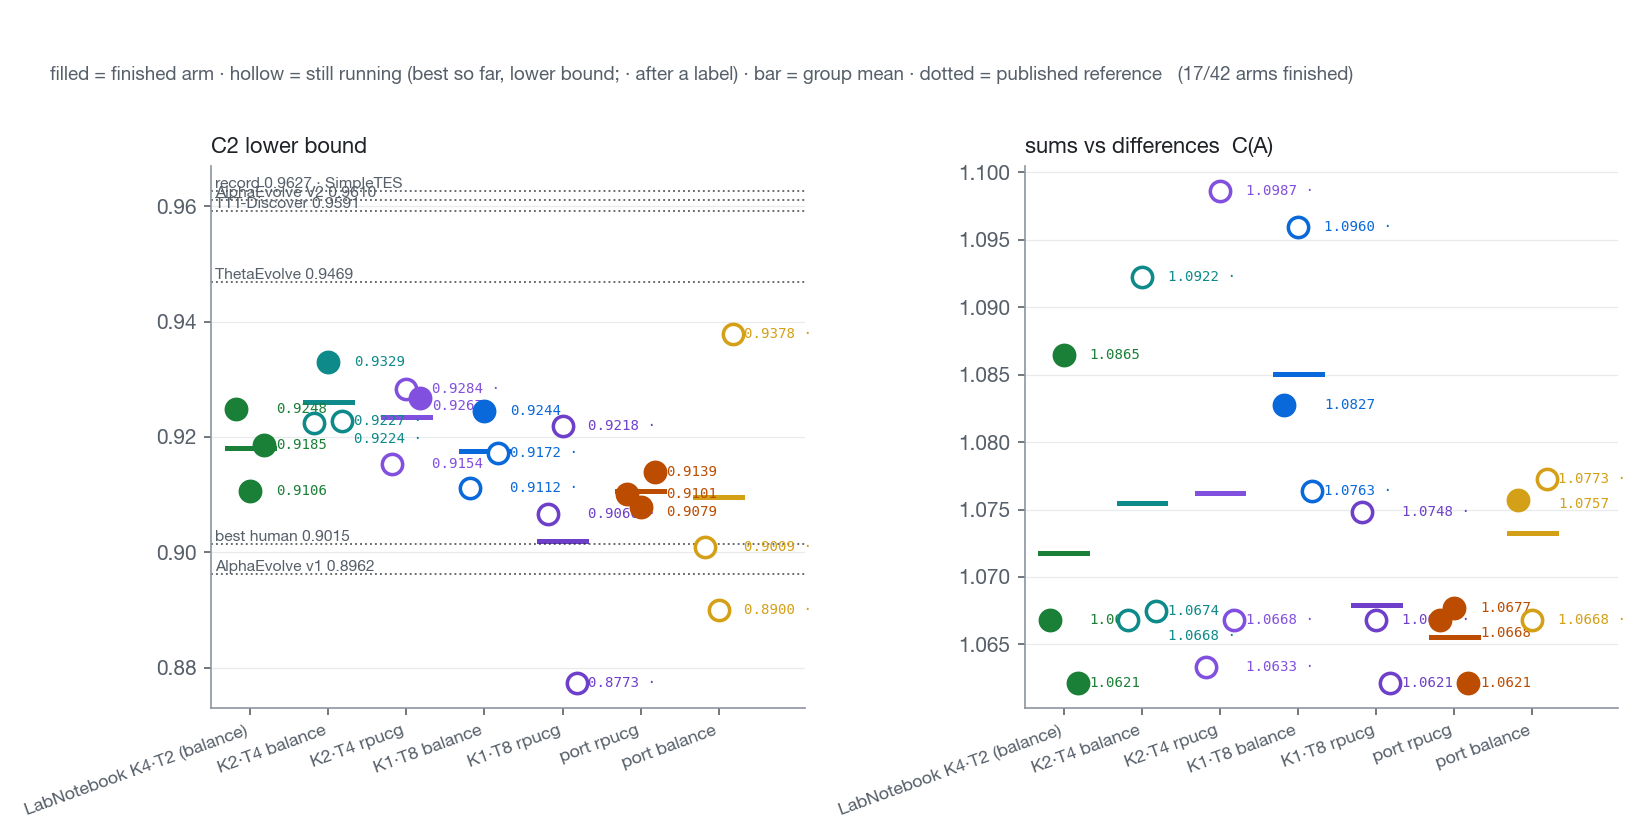
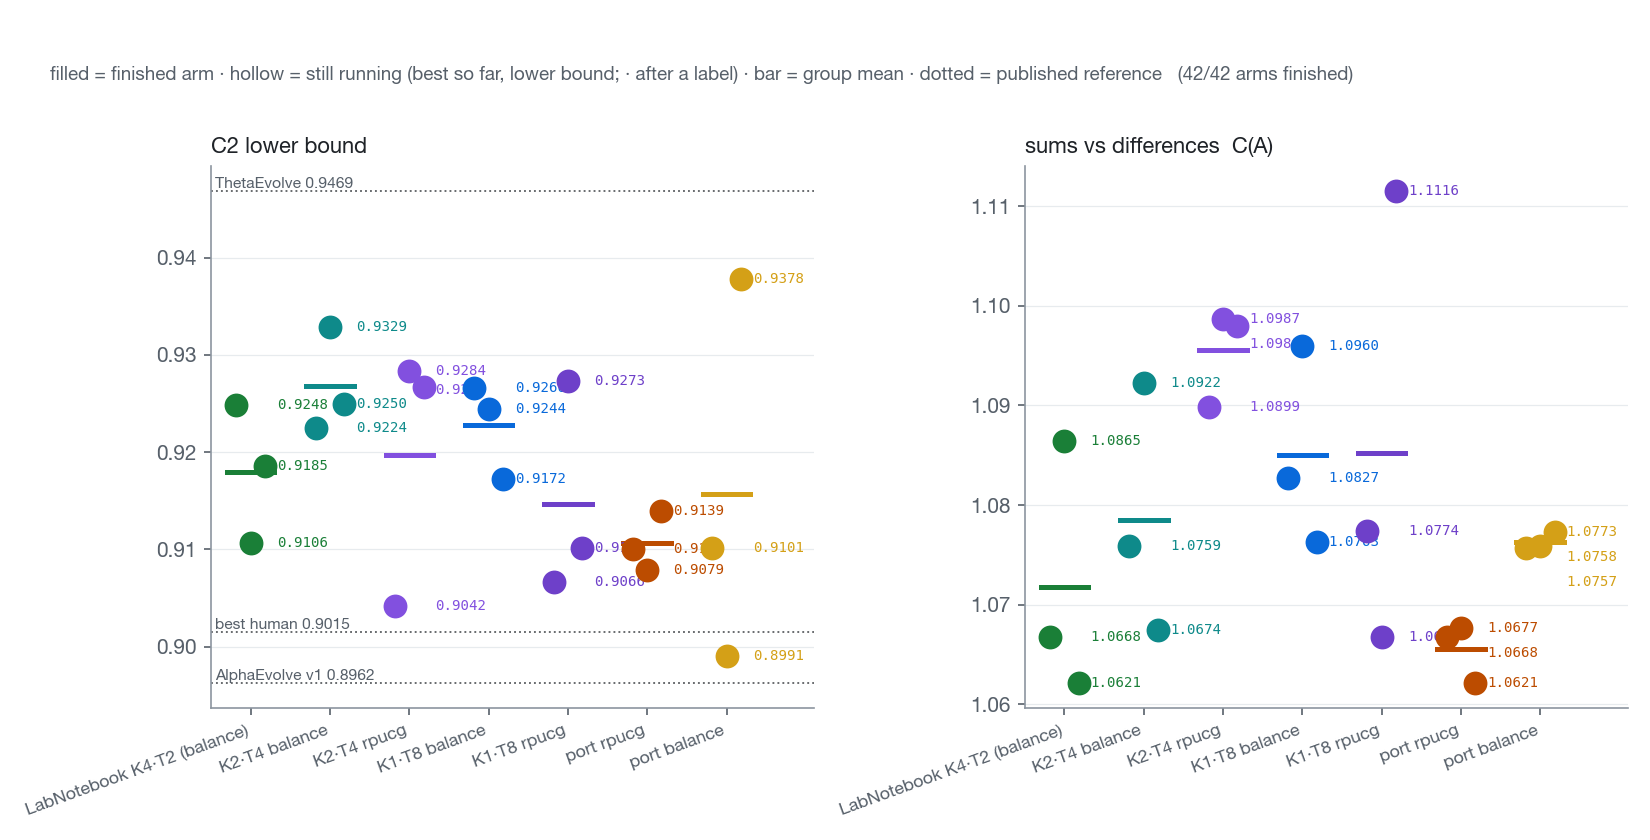
docs(evolution): ablations and selector study final; Part 1 at 16/18; merge-fix note

diff --git a/examples/evolution_bench/docs/lab_notebook_results.tex b/examples/evolution_bench/docs/lab_notebook_results.tex
@@ -528,9 +528,9 @@ differences inside the replicate spread ($\sim$0.01) are inconclusive, on AHC039
 $\sim$20 points, the seed's own machine noise.
 
 \begin{table}[H]\centering\small
-\caption{Part 1 snapshot (2026-09-09 08:30 PDT): best per arm (s0 / s1 / s2) and mean. Dashes are the five
-engine arms still running (now on Sherlock, resumed from the engine's own checkpoints); the upstream
-engine keeps no partial results.}
+\caption{Part 1 snapshot (2026-09-09 23:35 PDT): best per arm (s0 / s1 / s2) and mean. Dashes are the two
+sums-vs-differences port-mirror engine arms still running on Sherlock; the upstream engine keeps no
+partial results.}
 \label{tab:part1}
 \begin{tabular}{@{}lrrrr@{}}
 \toprule
@@ -546,14 +546,14 @@ upstream, authors' defaults & 0.9120 & 0.9094 & 0.9093 & 0.9102 \\
 \midrule
 LabNotebook & 1.0668 & 1.0865 & 1.0621 & 1.0718 \\
 our SimpleTES port & 1.0668 & 1.0677 & 1.0621 & 1.0655 \\
-upstream, port-mirror & --- & --- & --- & --- \\
-upstream, authors' defaults & --- & 1.0668 & 1.0668 & 1.0668 \\
+upstream, port-mirror & 1.0692 & --- & --- & 1.0692 \\
+upstream, authors' defaults & 1.0668 & 1.0668 & 1.0668 & 1.0668 \\
 \midrule
 \multicolumn{5}{@{}l}{\textbf{Heilbronn convex $n{=}13$} (ratio, higher is better)} \\
 \midrule
 LabNotebook & 0.8520 & 1.0000 & 0.8905 & 0.9142 \\
 our SimpleTES port & 0.9158 & 0.8676 & 0.8833 & 0.8889 \\
-upstream, port-mirror & --- & 0.8877 & 0.9163 & 0.9020 \\
+upstream, port-mirror & 0.8614 & 0.8877 & 0.9163 & 0.8884 \\
 upstream, authors' defaults & 0.7127 & 0.8554 & 0.7126 & 0.7602 \\
 \midrule
 \multicolumn{5}{@{}l}{\textbf{$C_1$ control} (lower is better)} \\
@@ -573,9 +573,9 @@ port is a weaker baseline than the original.}
 \end{figure}
 
 \begin{table}[H]\centering\small
-\caption{Part 2 snapshot (2026-09-09 08:30 PDT). $^\circ$ = still running (best so far, a lower bound). The
-AHC039 arms are frozen at their Modal checkpoints (35--155 rows of $\sim$180) until the Sherlock
-eval servers are up; the one finished arm is the upstream engine, seed 1.}
+\caption{Part 2 (2026-09-09 23:35 PDT). $C_2$ and sums vs differences: all 24 ablation arms finished. AHC039: the
+Modal half-block, frozen where the credit ran out ($^\circ$, 35--155 rows of $\sim$180, old merge);
+the Sherlock re-run on the refined merge is in progress and replaces these rows when done.}
 \label{tab:part2}
 \begin{tabular}{@{}lrrrr@{}}
 \toprule
@@ -584,7 +584,7 @@ group & s0 & s1 & s2 & mean \\
 \midrule
 LabNotebook (full) & 0.9248 & 0.9106 & 0.9185 & 0.9180 \\
 no ideas & 0.9064 & 0.9096 & 0.9103 & 0.9087 \\
-one long trajectory & 0.9112$^\circ$ & 0.9244 & 0.9172$^\circ$ & 0.9176 \\
+one long trajectory & 0.9266 & 0.9244 & 0.9172 & 0.9227 \\
 no notebook & 0.9048 & 0.9108 & 0.9251 & 0.9136 \\
 no digest & 0.9036 & 0.9304 & 0.9273 & 0.9204 \\
 \midrule
@@ -592,11 +592,11 @@ no digest & 0.9036 & 0.9304 & 0.9273 & 0.9204 \\
 \midrule
 LabNotebook (full) & 1.0668 & 1.0865 & 1.0621 & 1.0718 \\
 no ideas & 1.0668 & 1.0754 & 1.0865 & 1.0762 \\
-one long trajectory & 1.0827 & 1.0960$^\circ$ & 1.0763$^\circ$ & 1.0850 \\
-no notebook & 1.0674$^\circ$ & 1.0754 & 1.0927 & 1.0785 \\
-no digest & 1.0936$^\circ$ & 1.0674 & 1.0668 & 1.0759 \\
+one long trajectory & 1.0827 & 1.0960 & 1.0763 & 1.0850 \\
+no notebook & 1.0674 & 1.0754 & 1.0927 & 1.0785 \\
+no digest & 1.0947 & 1.0674 & 1.0668 & 1.0763 \\
 \midrule
-\multicolumn{5}{@{}l}{\textbf{AHC039 block} (official points)} \\
+\multicolumn{5}{@{}l}{\textbf{AHC039, Modal half-block} (official points; $^\circ$ = frozen partial)} \\
 \midrule
 upstream SimpleTES & --- & 3742 & --- & 3742 \\
 our port & 3677$^\circ$ & 3524$^\circ$ & 3702$^\circ$ & 3634 \\
@@ -611,11 +611,12 @@ no digest & 3702$^\circ$ & 3752$^\circ$ & 3700$^\circ$ & 3718 \\
 
 \begin{figure}[H]\centering
 \includegraphics[width=\textwidth]{lab_notebook_figs/part2_ablations.png}
-\caption{Part 2 snapshot. Removing the ideas holds C2 at the seed where the full method moved;
-on sums vs differences it does not hurt. Removing the digest does not hurt C2 (finished mean
-0.9204 against 0.9180 for the full method), removing the notebook does not either, and the single
-long trajectory is strong on both. The AHC039 block, where the effect to explain is largest, is
-paused at its Modal checkpoints pending the Sherlock eval servers.}
+\caption{Part 2, cheap tasks final. Removing the ideas is the one variant below the full method on
+C2 (0.9087 against 0.9180); removing the digest (0.9204), removing the notebook (0.9136) and a
+single long trajectory (0.9227) do not hurt, and on sums vs differences every variant lands at or
+above the full method (1.076--1.085 against 1.0718). On these two tasks, then, the ideas carry the
+effect and the notebook and digest do not show a measurable benefit; AHC039, where the notebook has
+the most to remember, is the open question the Sherlock block answers.}
 \end{figure}
 
 
@@ -630,15 +631,31 @@ a Sherlock eval server, which is a different ruler from the Modal one, and the 2
 on both sides of the seam plus the server boot ids in every arm's log make the seam visible in the
 analysis rather than averaged over. Finished arms are unaffected.
 
+\paragraph{AHC039 block re-run, and a block-merge fix.} Because AHC039 scores are wall-clock limited, the
+moved arms were not resumed: the whole block (21 arms, three waves, one eval server per wave, all
+three servers on one Sherlock node) was restarted from scratch, and the Modal half-block is kept as a
+separate dataset. Inspecting that half-block exposed a defect in our EVOLVE-BLOCK merge: a reply that
+carried the whole file was spliced between the fixed prefix and suffix (declaring everything twice),
+and a fence line nested inside the block survived into the source. Only 22\% of the half-block's
+evaluations were compilable programs; 47\% were these two shapes. Every method using our variator
+paid the same tax (the upstream engine rejects such replies outright), so the earlier AHC039
+comparisons stand, but they were run at a quarter of the useful budget. The merge now finds the
+innermost marker pair on fence-less text, takes a body that opens with a preprocessor line, defines
+\texttt{main()}, or repeats the prefix as the whole program, and rejects a body with no statement
+at all (prose, a formula, code in another language) so the variator re-rolls it. Checked against
+213 real failures from a first, partial version of the fix, this keeps 147 whole programs whole and
+rejects 14 junk replies; the expected share of compilable candidates rises from about a fifth to
+about a half. The Sherlock block runs on this merge, and its AHC039 numbers are therefore not
+comparable one-to-one with the flash/pro campaign's, which ran on the old merge.
+
 \paragraph{Trajectory length and the inspiration selector.} Because the selector never chooses at
 $T{=}2$, a selector study has to lengthen the trajectories. Three arms per cell: $K{=}2$, $T{=}4$
 (still 16 candidates per cycle) with balance and with rpucg; $K{=}1$, $T{=}8$ with rpucg (its
 balance twin is the one-long ablation); and the port itself with balance (its rpucg twin is the
-main-campaign port). Table~\ref{tab:sel} and Figure~\ref{fig:sel} carry the snapshot.
+main-campaign port). Table~\ref{tab:sel} and Figure~\ref{fig:sel} carry the results.
 
 \begin{table}[H]\centering\small
-\caption{Selector study snapshot (2026-09-09 08:30 PDT; running on Sherlock, 4 of 24 arms finished).
-$^\circ$ = still running.}
+\caption{Selector study (2026-09-09 23:35 PDT), all 24 arms finished.}
 \label{tab:sel}
 \begin{tabular}{@{}lrrrr@{}}
 \toprule
@@ -646,31 +663,33 @@ $^\circ$ = still running.}
 group & s0 & s1 & s2 & mean \\
 \midrule
 LabNotebook $K{=}4$, $T{=}2$, balance (full) & 0.9248 & 0.9106 & 0.9185 & 0.9180 \\
-$K{=}2$, $T{=}4$, balance & 0.9224$^\circ$ & 0.9329 & 0.9227$^\circ$ & 0.9260 \\
-$K{=}2$, $T{=}4$, rpucg & 0.9154$^\circ$ & 0.9284$^\circ$ & 0.9267 & 0.9235 \\
-$K{=}1$, $T{=}8$, balance & 0.9112$^\circ$ & 0.9244 & 0.9172$^\circ$ & 0.9176 \\
-$K{=}1$, $T{=}8$, rpucg & 0.9066$^\circ$ & 0.9218$^\circ$ & 0.8773$^\circ$ & 0.9019 \\
+$K{=}2$, $T{=}4$, balance & 0.9224 & 0.9329 & 0.9250 & 0.9268 \\
+$K{=}2$, $T{=}4$, rpucg & 0.9042 & 0.9284 & 0.9267 & 0.9198 \\
+$K{=}1$, $T{=}8$, balance & 0.9266 & 0.9244 & 0.9172 & 0.9227 \\
+$K{=}1$, $T{=}8$, rpucg & 0.9066 & 0.9273 & 0.9101 & 0.9147 \\
 port, rpucg & 0.9101 & 0.9079 & 0.9139 & 0.9106 \\
-port, balance & 0.9009$^\circ$ & 0.8900$^\circ$ & 0.9378$^\circ$ & 0.9096 \\
+port, balance & 0.9101 & 0.8991 & 0.9378 & 0.9156 \\
 \midrule
 \multicolumn{5}{@{}l}{\textbf{sums vs differences} (higher is better)} \\
 \midrule
 LabNotebook $K{=}4$, $T{=}2$, balance (full) & 1.0668 & 1.0865 & 1.0621 & 1.0718 \\
-$K{=}2$, $T{=}4$, balance & 1.0668$^\circ$ & 1.0922$^\circ$ & 1.0674$^\circ$ & 1.0755 \\
-$K{=}2$, $T{=}4$, rpucg & 1.0633$^\circ$ & 1.0987$^\circ$ & 1.0668$^\circ$ & 1.0762 \\
-$K{=}1$, $T{=}8$, balance & 1.0827 & 1.0960$^\circ$ & 1.0763$^\circ$ & 1.0850 \\
-$K{=}1$, $T{=}8$, rpucg & 1.0748$^\circ$ & 1.0668$^\circ$ & 1.0621$^\circ$ & 1.0679 \\
+$K{=}2$, $T{=}4$, balance & 1.0759 & 1.0922 & 1.0674 & 1.0785 \\
+$K{=}2$, $T{=}4$, rpucg & 1.0899 & 1.0987 & 1.0980 & 1.0955 \\
+$K{=}1$, $T{=}8$, balance & 1.0827 & 1.0960 & 1.0763 & 1.0850 \\
+$K{=}1$, $T{=}8$, rpucg & 1.0774 & 1.0668 & 1.1116 & 1.0853 \\
 port, rpucg & 1.0668 & 1.0677 & 1.0621 & 1.0655 \\
-port, balance & 1.0757 & 1.0668$^\circ$ & 1.0773$^\circ$ & 1.0733 \\
+port, balance & 1.0757 & 1.0758 & 1.0773 & 1.0763 \\
 \bottomrule
 \end{tabular}
 \end{table}
 
 \begin{figure}[H]\centering
 \includegraphics[width=\textwidth]{lab_notebook_figs/part3_selector.png}
-\caption{Selector study snapshot. The $K{=}2$, $T{=}4$ arms are at or above the full method on C2
-under both selectors, with no separation between balance and rpucg so far; $K{=}1$, $T{=}8$ with
-rpucg is the weakest cell on both tasks.}
+\caption{Selector study, final. No consistent winner between the selectors: at $K{=}2$, $T{=}4$
+balance leads on C2 (0.9268 against 0.9198) and rpucg on sums vs differences (1.0955 against
+1.0785), both gaps inside about two replicate spreads. What is consistent is the trajectory length:
+every $T{\ge}4$ cell beats the full method's $K{=}4$, $T{=}2$ on both tasks, and the single best
+sums-vs-differences value of the whole program (1.1116) came from $K{=}1$, $T{=}8$ with rpucg.}
 \label{fig:sel}
 \end{figure}
 
